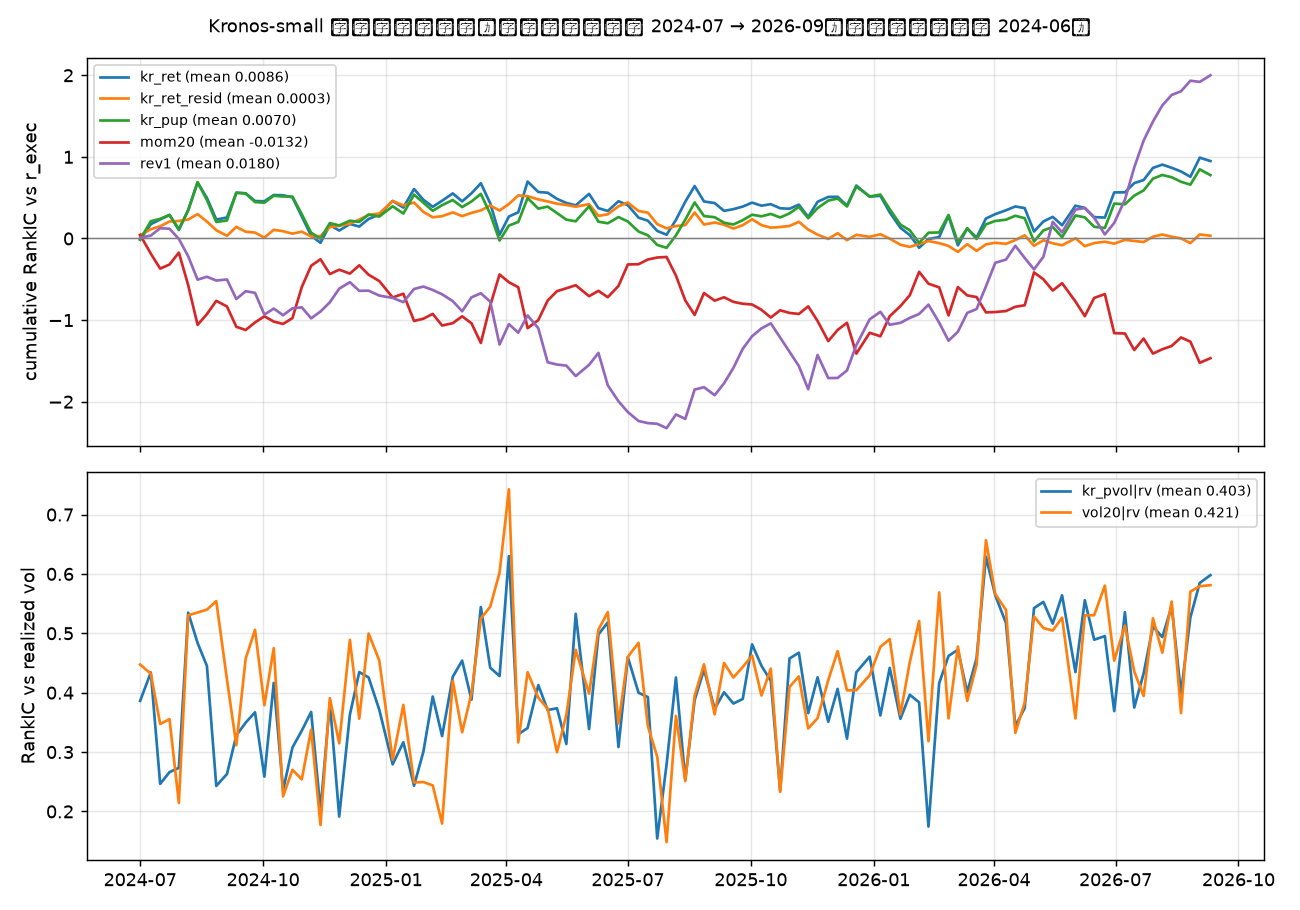
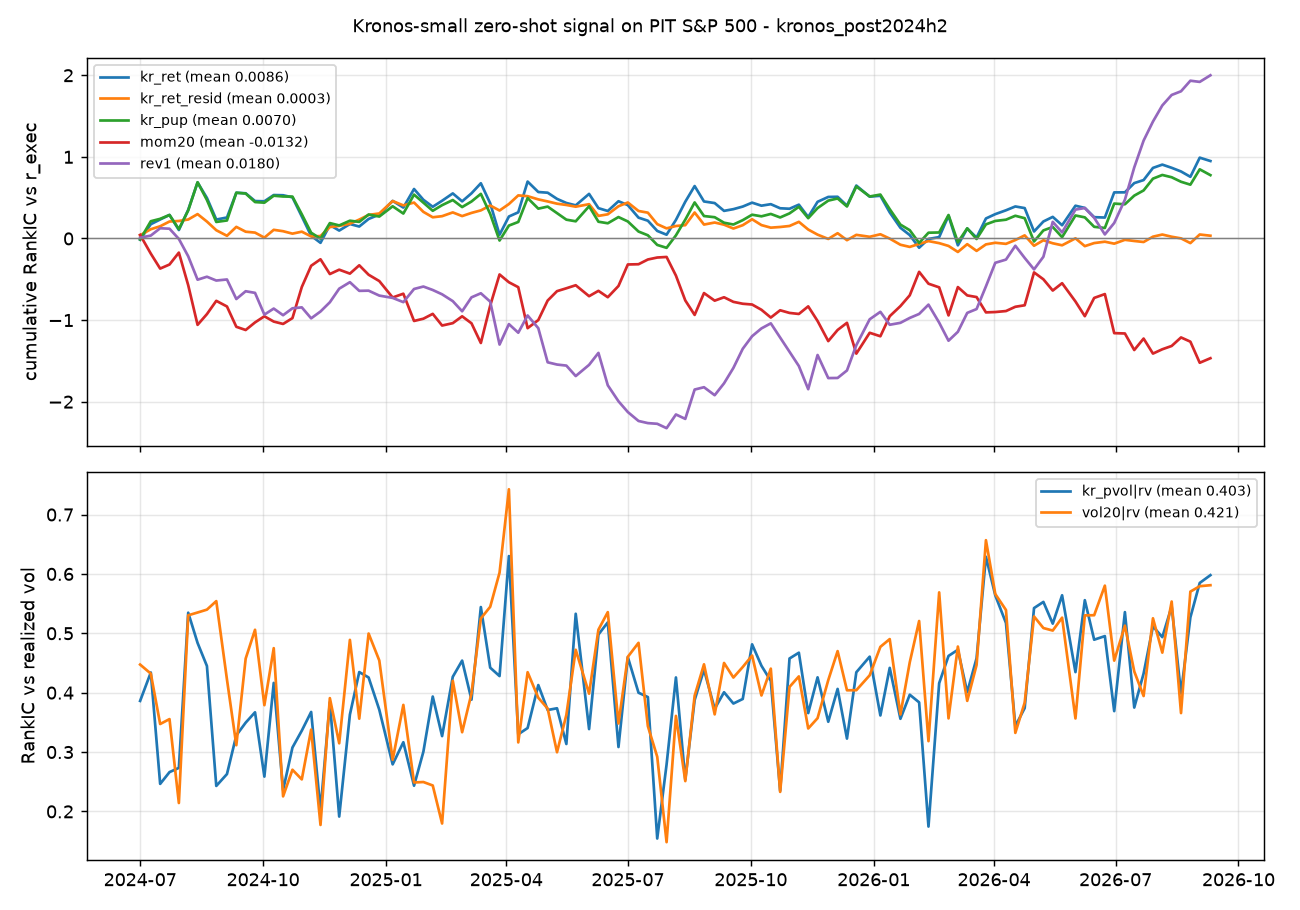
Stage 2 closed: leakage diagnostic confirms no Kronos signal; docs/05 final
- reports/kronos_pre2024h2.*: 2022-01 -> 2024-06 (Kronos pre-training period,
  63 dates, 30k obs): kr_ret RankIC -0.0082 (t -0.52) -> no memorization and
  no signal; vol forecast ties trailing 20-day vol (0.43 vs 0.43)
- docs/05: leakage section, verdict table (criteria 1-3 fail, 4 passes),
  final conclusion; README status; ASCII plot title (default font lacks CJK)

Changed region(s): [[0.1538, 0.0, 0.8308, 0.0615]]

diff --git a/ljs/kronos_features.py b/ljs/kronos_features.py
@@ -357,7 +357,8 @@ def evaluate(features_path: Path, norm_dir: Path, pred_len: int, out_json: Path,
         for k in ["kr_pvol|rv", "vol20|rv"]:
             ax[1].plot(ic_df.index, ic_df[k], label=f"{k} (mean {ic_df[k].mean():.3f})")
         ax[1].set_ylabel("RankIC vs realized vol"); ax[1].legend(fontsize=8); ax[1].grid(alpha=0.3)
-        fig.suptitle(title, fontsize=10); fig.tight_layout()
+        fig.suptitle(f"Kronos-small zero-shot signal on PIT S&P 500 - {out_json.stem}", fontsize=10)  # ASCII: default font lacks CJK glyphs
+        fig.tight_layout()
         fig.savefig(out_json.with_suffix(".png"), dpi=130); plt.close(fig)
     except Exception as e:  # noqa: BLE001
         logger.warning(f"plot failed: {e}")

diff --git a/docs/05_阶段2_Kronos序列特征.md b/docs/05_阶段2_Kronos序列特征.md
@@ -73,9 +73,24 @@
 3. **模型不是坏的，是没有横截面 alpha。** kr_pvol 对未来 5 日实现波动的 RankIC 0.40，说明它确实学到了波动率聚集，但比最简单的 20 日历史波动（0.42）还差一点。也就是说，Kronos 在这个任务上的全部信息，一个 20 日窗口的均值和标准差就能复现。
 4. 与 docs/02 引用的文献一致：通用和金融专用的时序基础模型在收益方向上的增益"小而稀疏"；在波动率上有能力但难胜过简单基准。
 
-### 3.3 泄漏诊断 2022-01 → 2024-06（模型预训练覆盖期）
+### 3.3 泄漏诊断 2022-01 → 2024-06（模型预训练覆盖期，63 个调度日，30,208 个股票-日期对）
 
-（运行中，完成后填入。若此期 RankIC 明显高于 3.1，则说明模型对这些股票的价格路径有记忆；若同样接近零，则连记忆效应都没有，进一步说明 Kronos-small 的日频零样本预测对标普 500 大盘股没有信息。）
+报告：`reports/kronos_pre2024h2.md`，图 `reports/kronos_pre2024h2.png`。
+
+| 信号 | 目标 | RankIC | t 值 |
+|---|---|---|---|
+| kr_ret | r_exec | **-0.0082** | -0.52 |
+| kr_pup | r_exec | -0.0089 | -0.62 |
+| kr_ret_resid | r_exec | 0.0076 | 1.05 |
+| 对照 mom5 | r_exec | +0.0201 | 1.09 |
+| 对照 rev1 | r_exec | +0.0063 | 0.28 |
+| kr_pvol | 实现波动 rv | 0.4315 | 34.4 |
+| 对照 vol20 | 实现波动 rv | 0.4346 | 32.8 |
+
+- kr_ret 五分位多空每 5 日 -0.096%，t -0.48。按年：2022 -0.0150，2023 +0.0040，2024 上半年 -0.0189。
+- 模型见过的时期 RankIC 反而为负，**没有记忆效应**。这排除了"干净期的 0.0086 被泄漏抬高"的可能，也说明 Kronos-small 对这些股票的日频价格路径确实没有横截面信息可提供。
+- 值得记一笔：这一期 mom5 的 RankIC 是 +0.020，干净期是 -0.024，5 日动量 / 反转的符号在两个时期之间翻转，进一步说明这些短期效应在标普 500 上就是噪声。
+- 波动率一侧再次与 20 日历史波动持平（0.43 对 0.43）。
 
 ### 3.4 判定
 
@@ -84,9 +99,9 @@
 | 1. 干净窗口 kr_ret 对 r_exec 的 RankIC t > 2 | **不过**（t 0.60） |
 | 2. 控制动量 / 反转 / 波动后仍有增量 | **不过**（残差 RankIC 0.0003） |
 | 3. 五分位多空扣费为正 | **不过**（扣费前年化 0.7%，日均换手下扣费必为负） |
-| 4. 污染期不显著高于干净期 | 待填 |
+| 4. 污染期不显著高于干净期 | 过（-0.0082 对 0.0086，无泄漏，但这只说明结论可信，不改变前三条） |
 
-**阶段 2 的结论：Kronos-small 零样本序列特征在 PIT 标普 500 上没有可用的横截面收益信号，不并入 LightGBM。** 未尝试的方向及预期：Kronos-base（4 倍算力，零样本机制相同，预期同样为零）；用本仓库数据微调（论文中微调确有提升，但目标是复现一个反转 + 波动模型，成本数小时到一夜，预期增量很小）；1 日期限（kr_ret1 对 1 日收益，见报告中 r1 行，同样不显著）。这些都记为可选项，不在本阶段执行。
+**阶段 2 的结论：Kronos-small 零样本序列特征在 PIT 标普 500 上没有可用的横截面收益信号，两个时期合计 174 个调度日、85,017 个股票-日期对，RankIC 在 ±0.01 内、t 值在 ±0.6 内，不并入 LightGBM。** 未尝试的方向及预期：Kronos-base（4 倍算力，零样本机制相同，预期同样为零）；用本仓库数据微调（论文中微调确有提升，但目标是复现一个反转 + 波动模型，成本数小时到一夜，预期增量很小）；1 日期限（kr_ret1 对 1 日收益，见报告中 r1 行，同样不显著）。这些都记为可选项，不在本阶段执行。
 
 ## 四、判定标准
 

diff --git a/reports/kronos_pre2024h2.md b/reports/kronos_pre2024h2.md
@@ -1,0 +1,45 @@
+# Kronos-small 信号评估：预训练数据覆盖期 2022-01 → 2024-06（泄漏诊断，不是测试）
+
+样本：30,208 个（股票, 日期）对，63 个调度日，2022-01-03 → 2024-06-24；目标 r_exec = t+1 收盘进、t+6 收盘出（与 Qlib 标签一致），r_now = t → t+5。
+
+| 信号 | 目标 | RankIC | t 值 | 正天数占比 | n |
+|---|---|---|---|---|---|
+| kr_ret | r_exec | -0.0082 | -0.52 | 44% | 63 |
+| kr_ret | r_now | -0.0090 | -0.58 | 46% | 63 |
+| kr_med | r_exec | -0.0081 | -0.54 | 43% | 63 |
+| kr_med | r_now | -0.0081 | -0.55 | 48% | 63 |
+| kr_pup | r_exec | -0.0089 | -0.62 | 44% | 63 |
+| kr_pup | r_now | -0.0149 | -1.01 | 43% | 63 |
+| kr_vol | r_exec | -0.0084 | -0.42 | 48% | 63 |
+| kr_vol | r_now | 0.0019 | 0.08 | 52% | 63 |
+| kr_ret1 | r_exec | -0.0148 | -1.18 | 44% | 63 |
+| kr_ret1 | r_now | -0.0130 | -1.06 | 43% | 63 |
+| kr_pvol | r_exec | -0.0138 | -0.51 | 46% | 63 |
+| kr_pvol | r_now | 0.0052 | 0.17 | 57% | 63 |
+| mom5 | r_exec | 0.0201 | 1.09 | 57% | 63 |
+| mom5 | r_now | 0.0131 | 0.67 | 57% | 63 |
+| mom20 | r_exec | 0.0076 | 0.37 | 49% | 63 |
+| mom20 | r_now | 0.0243 | 1.17 | 60% | 63 |
+| mom60 | r_exec | -0.0143 | -0.69 | 44% | 63 |
+| mom60 | r_now | 0.0085 | 0.40 | 51% | 63 |
+| vol20 | r_exec | -0.0199 | -0.75 | 44% | 63 |
+| vol20 | r_now | -0.0036 | -0.12 | 56% | 63 |
+| rev1 | r_exec | 0.0063 | 0.28 | 56% | 63 |
+| rev1 | r_now | 0.0053 | 0.22 | 60% | 63 |
+| kr_ret1 | r1 | -0.0113 | -0.78 | 56% | 63 |
+| kr_ret | r1 | 0.0020 | 0.10 | 46% | 63 |
+| rev1 | r1 | -0.0110 | -0.45 | 54% | 63 |
+| mom5 | r1 | 0.0261 | 1.10 | 59% | 63 |
+| kr_vol | rv | 0.3199 | 33.27 | 100% | 63 |
+| kr_pvol | rv | 0.4315 | 34.38 | 100% | 63 |
+| vol20 | rv | 0.4346 | 32.75 | 100% | 63 |
+| kr_ret_resid | r_exec | 0.0076 | 1.05 | 49% | 63 |
+| kr_ret_resid | r_now | 0.0094 | 1.20 | 54% | 63 |
+
+kr_ret 五分位多空（Q5−Q1）每期均值 -0.096%，t -0.48，粗略年化 -4.9%（不含成本）。
+
+kr_ret 对 r_exec 的 RankIC 按年：2022: -0.0150, 2023: 0.0040, 2024: -0.0189
+
+![ic](kronos_pre2024h2.png)
+
+kr_ret 与对照信号的横截面 Spearman 相关（按日均值）：mom5: -0.369, mom20: -0.525, mom60: -0.435, rev1: 0.185, vol20: 0.101。`kr_ret_resid` 是把 kr_ret 的秩对这些对照的秩逐日回归后的残差。

diff --git a/README.md b/README.md
@@ -13,7 +13,7 @@
 
 ## 现状
 
-阶段 1（基线）完成，结论：没有 alpha（见下）。阶段 2（Kronos 序列特征）完成，结论：Kronos-small 零样本预期收益在干净窗口（2024-07 → 2026-09）RankIC 0.0086、t 0.60，控制动量后残差 0.0003，是反转信号的复述；波动率预测能力真实（RankIC 0.40）但不及 20 日历史波动（0.42）。不并入模型。见 [docs/05](docs/05_阶段2_Kronos序列特征.md)。
+阶段 1（基线）完成，结论：没有 alpha（见下）。阶段 2（Kronos 序列特征）完成，结论：Kronos-small 零样本预期收益在干净窗口（2024-07 → 2026-09）RankIC 0.0086、t 0.60，控制动量后残差 0.0003，是反转信号的复述；波动率预测能力真实（RankIC 0.40）但不及 20 日历史波动（0.42）；模型预训练覆盖期（2022-01 → 2024-06）RankIC -0.0082，无泄漏也无信号。不并入模型。见 [docs/05](docs/05_阶段2_Kronos序列特征.md)。
 
 ### 阶段 1：基线
 
